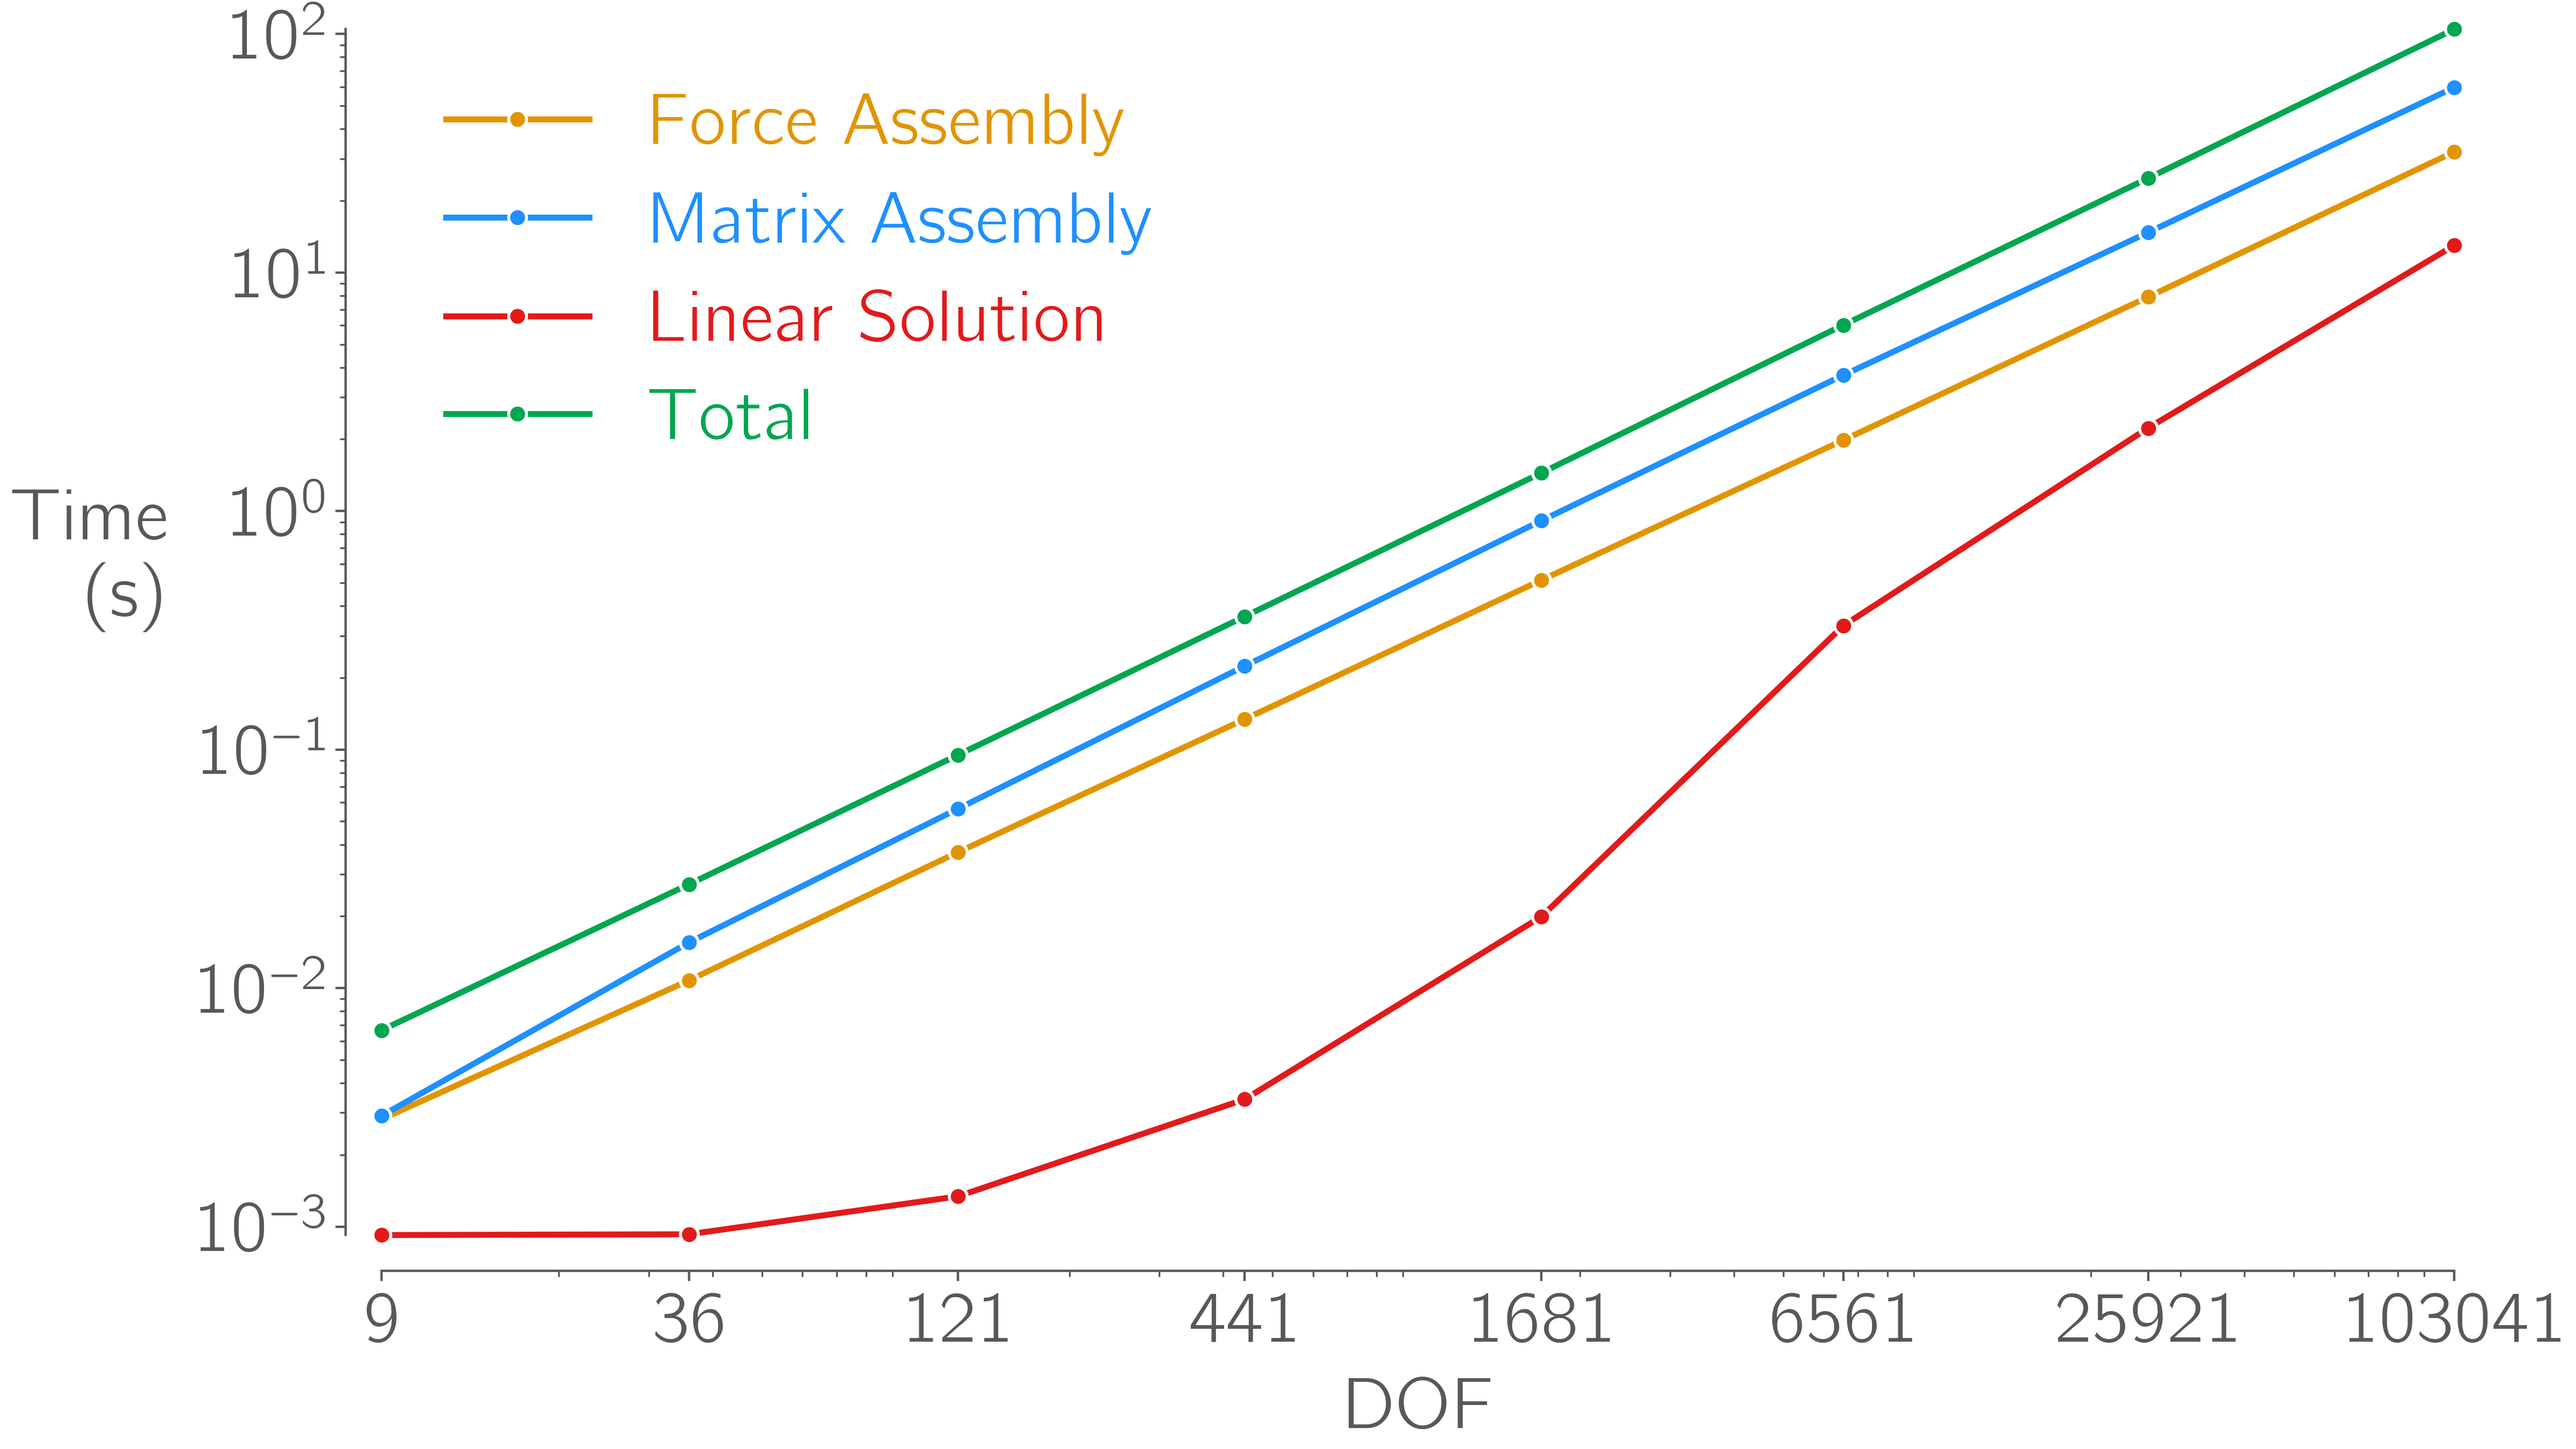
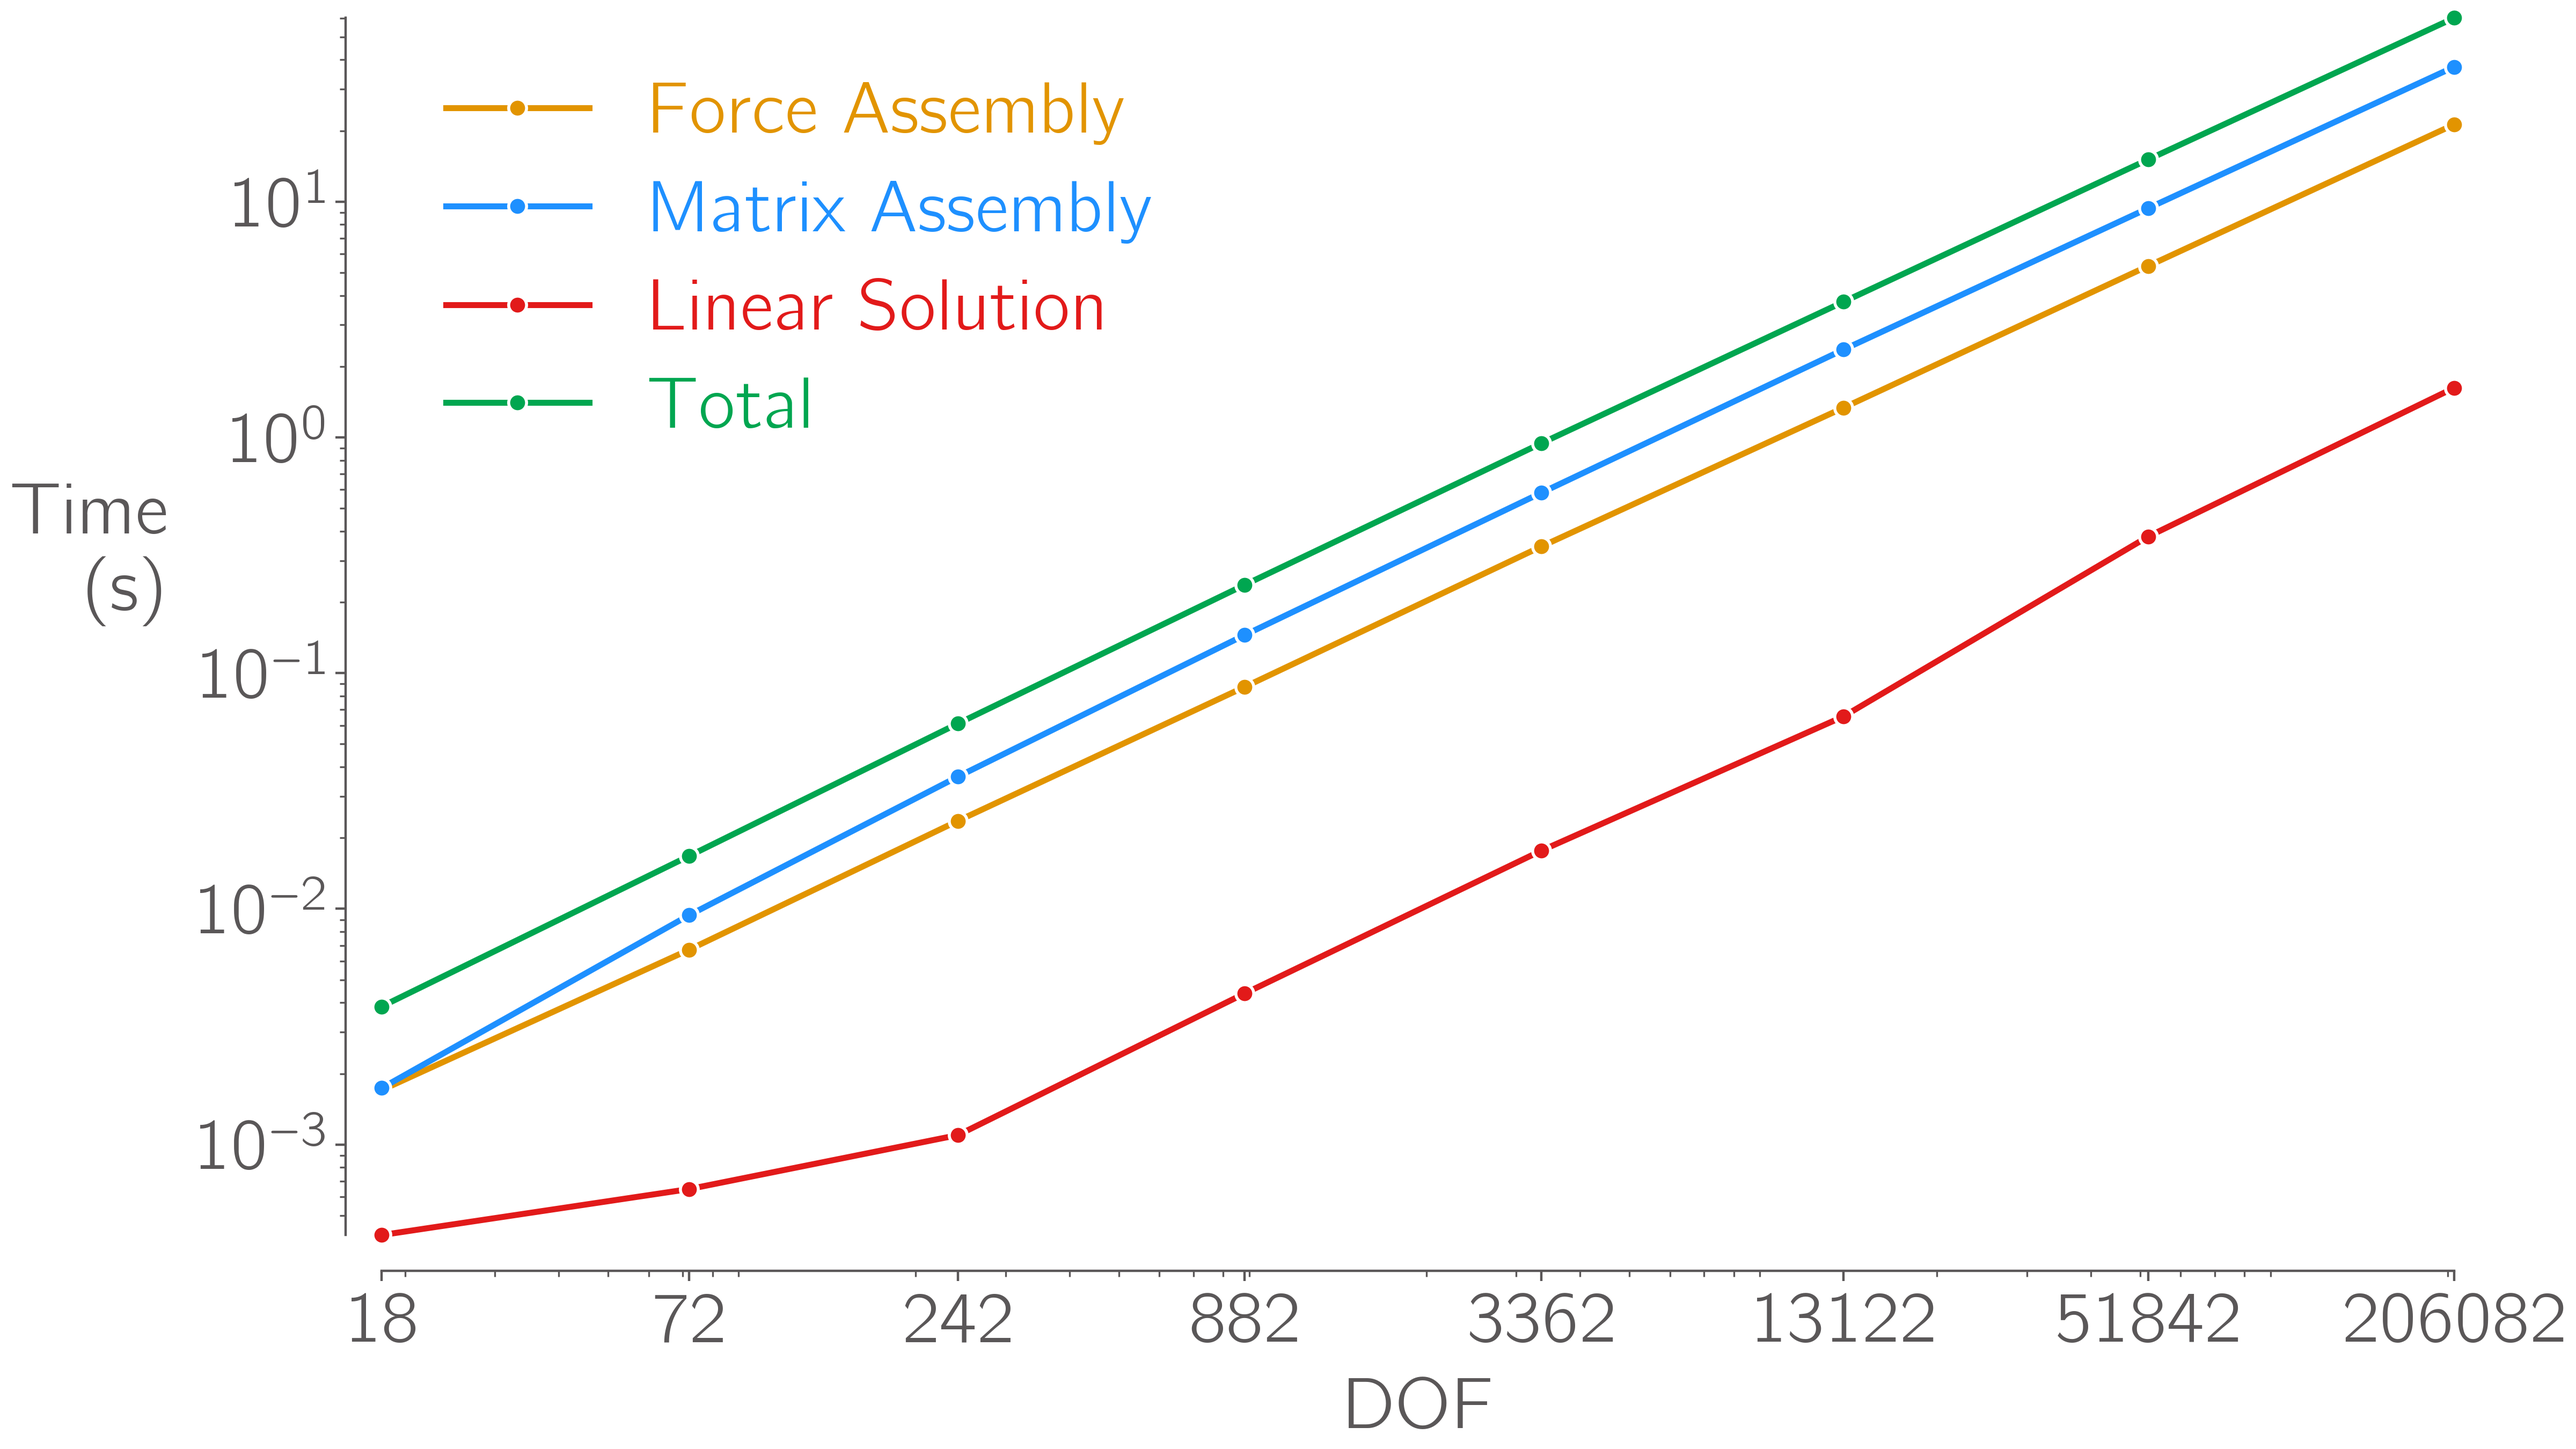
Fix number of DOF in scaling plot

diff --git a/Examples/Benchmarks/QuadMeshScaling.py b/Examples/Benchmarks/QuadMeshScaling.py
@@ -87,7 +87,7 @@ for e in numEl:
     nodeCoords, conn = createGridMesh(e, e, warpFunc=warpFunc)
     nodeEls = fp.makeNodeElsMat(conn)
     numNodes = np.shape(nodeCoords)[0]
-    numDOFList.append(numNodes)
+    numDOFList.append(2 * numNodes)
 
     leftEdgeNodes = np.argwhere(nodeCoords[:, 0] == 0.0).flatten()
     leftEdgeDisp = 0.0
@@ -152,5 +152,5 @@ for v, name in zip(plotVars, plotVarNames):
 ax.set_xticks(numDOFList)
 ax.set_xticklabels(numDOFList)
 ax.legend(labelcolor="linecolor")
-fig.savefig("QuadElScaling.png", dpi=400)
+fig.savefig("../../Images/QuadElScaling.png", dpi=400)
 plt.show()
